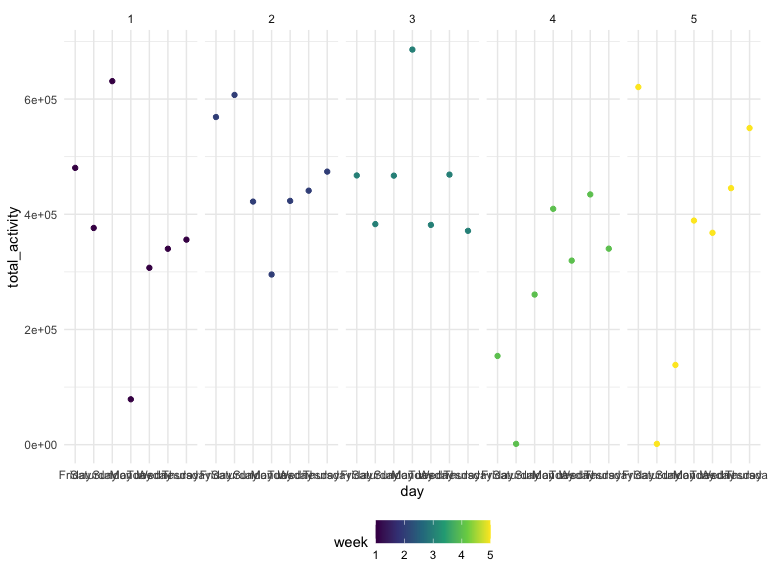
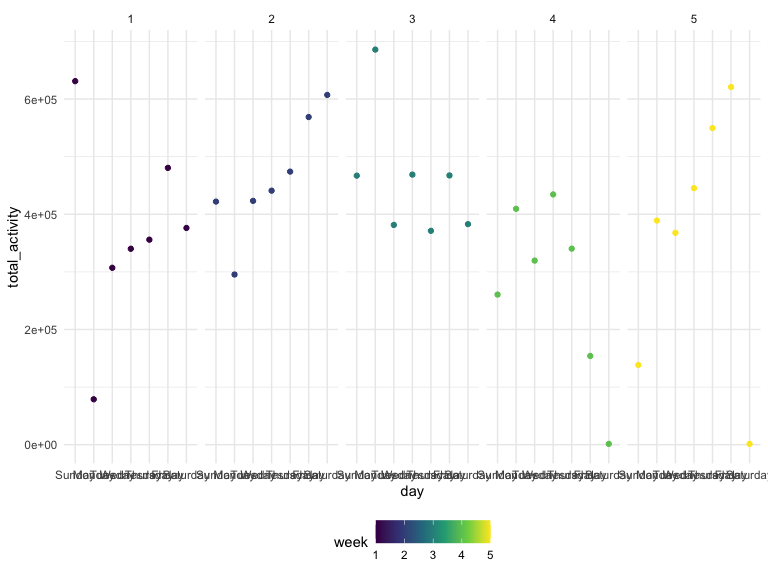
p2: finish last part and start doing p3

diff --git a/p8105_hw3_wy2369.md b/p8105_hw3_wy2369.md
@@ -106,7 +106,7 @@ instacart %>%
 | dog food care              | Organix Chicken & Brown Rice Recipe           |   28 |    2 |
 | dog food care              | Small Dog Biscuits                            |   26 |    3 |
 
-### Make a table showing the mean hour that Pink Lady Apples and Coffee Ice Cream are ordered.
+### Make a table showing the mean hour that Pink Lady Apples and Coffee Ice Cream are ordered
 
 Finally is a table showing the mean hour of the day at which Pink Lady
 Apples and Coffee Ice Cream are ordered on each day of the week. This
@@ -149,7 +149,7 @@ accel_df =
     names_prefix = "activity_",
     values_to = "activity_count")%>%
     mutate(
-      day = fct_relevel(day,c("Friday","Saturday","Sunday","Monday","Tuesday","Wednesday","Thursday"))) %>%
+      day = fct_relevel(day,c("Sunday","Monday","Tuesday","Wednesday","Thursday","Friday","Saturday"))) %>%
   arrange(week,day)
 ```
 
@@ -191,13 +191,13 @@ accel_total_tidy =
 accel_total_tidy
 ```
 
-| week |   Friday | Saturday | Sunday |    Monday |  Tuesday | Wednesday | Thursday |
-|-----:|---------:|---------:|-------:|----------:|---------:|----------:|---------:|
-|    1 | 480542.6 |   376254 | 631105 |  78828.07 | 307094.2 |    340115 | 355923.6 |
-|    2 | 568839.0 |   607175 | 422018 | 295431.00 | 423245.0 |    440962 | 474048.0 |
-|    3 | 467420.0 |   382928 | 467052 | 685910.00 | 381507.0 |    468869 | 371230.0 |
-|    4 | 154049.0 |     1440 | 260617 | 409450.00 | 319568.0 |    434460 | 340291.0 |
-|    5 | 620860.0 |     1440 | 138421 | 389080.00 | 367824.0 |    445366 | 549658.0 |
+| week | Sunday |    Monday |  Tuesday | Wednesday | Thursday |   Friday | Saturday |
+|-----:|-------:|----------:|---------:|----------:|---------:|---------:|---------:|
+|    1 | 631105 |  78828.07 | 307094.2 |    340115 | 355923.6 | 480542.6 |   376254 |
+|    2 | 422018 | 295431.00 | 423245.0 |    440962 | 474048.0 | 568839.0 |   607175 |
+|    3 | 467052 | 685910.00 | 381507.0 |    468869 | 371230.0 | 467420.0 |   382928 |
+|    4 | 260617 | 409450.00 | 319568.0 |    434460 | 340291.0 | 154049.0 |     1440 |
+|    5 | 138421 | 389080.00 | 367824.0 |    445366 | 549658.0 | 620860.0 |     1440 |
 
 To find out the trend of these data, I also make a plot using the code
 chunk below.
@@ -216,11 +216,64 @@ counts for each day. The highest total activity counts was collected on
 Monday of week 3, and the lowest was collected on Saturday of week 4 and
 week 5.
 
-### Make a single-panel plot that shows the 24-hour activity time courses for each day
+### Make a single-panel plot that shows the 24-hour activity
 
-and use color to indicate day of the week. Describe in words any
-patterns or conclusions you can make based on this graph.
+Using this code chunk to make a plot which presents the 24-hour activity
+time courses for each day.
+
+``` r
+accel_df %>%
+  mutate(minute_interval = as.numeric(minute_interval))%>%
+  ggplot(aes(x = minute_interval,y = activity_count, color = day, group = week))+
+  geom_point()+
+  labs(
+    title = "24-hour activity count for each day",
+    x = "time",
+    y = "activity_count",
+    caption = "Data from accel_data.csv"
+  )+
+  geom_line()+
+    scale_x_continuous(
+    breaks = c(180,360,540,720,900,1080,1260,1440),
+    labels = c("3:00","6:00","9:00","12:00","15:00","18:00","21:00","24:00")
+  )
+```
+
+<img src="p8105_hw3_wy2369_files/figure-gfm/unnamed-chunk-9-1.png" width="90%" />
+
+Based on the resulting plot, the activity counts are always lower than
+2500 from 22:00 to 5:00 for each day. However, activity counts increase
+at around 6:00, 9:00, 11:00, 16:00 and 20:00. From 20:00 to 22:00, most
+activity counts are higher than 5000 and the highest point is 8982.
 
 # Problem 3
 
 ### Load the data
+
+Do some data cleaning. Create separate variables for year, month, and
+day. Ensure observations for temperature, precipitation, and snowfall
+are given in reasonable units. For snowfall, what are the most commonly
+observed values? Why?
+
+``` r
+data("ny_noaa")
+ny_noaa = 
+  instacart %>% 
+  as_tibble(ny_noaa)
+```
+
+### Make a two-panel plot showing the average max temperature in January and July
+
+in each station across years. Is there any observable / interpretable
+structure? Any outliers?
+
+Make a two-panel plot showing (i) tmax vs tmin for the full dataset
+(note that a scatterplot may not be the best option); and (ii) make a
+plot showing the distribution of snowfall values greater than 0 and less
+than 100 separately by year.
+
+The goal is to do some exploration of this dataset. To that end, write a
+short description of the dataset, noting the size and structure of the
+data, describing some key variables, and indicating the extent to which
+missing data is an issue. Then, do or answer the following (commenting
+on the results of each):
